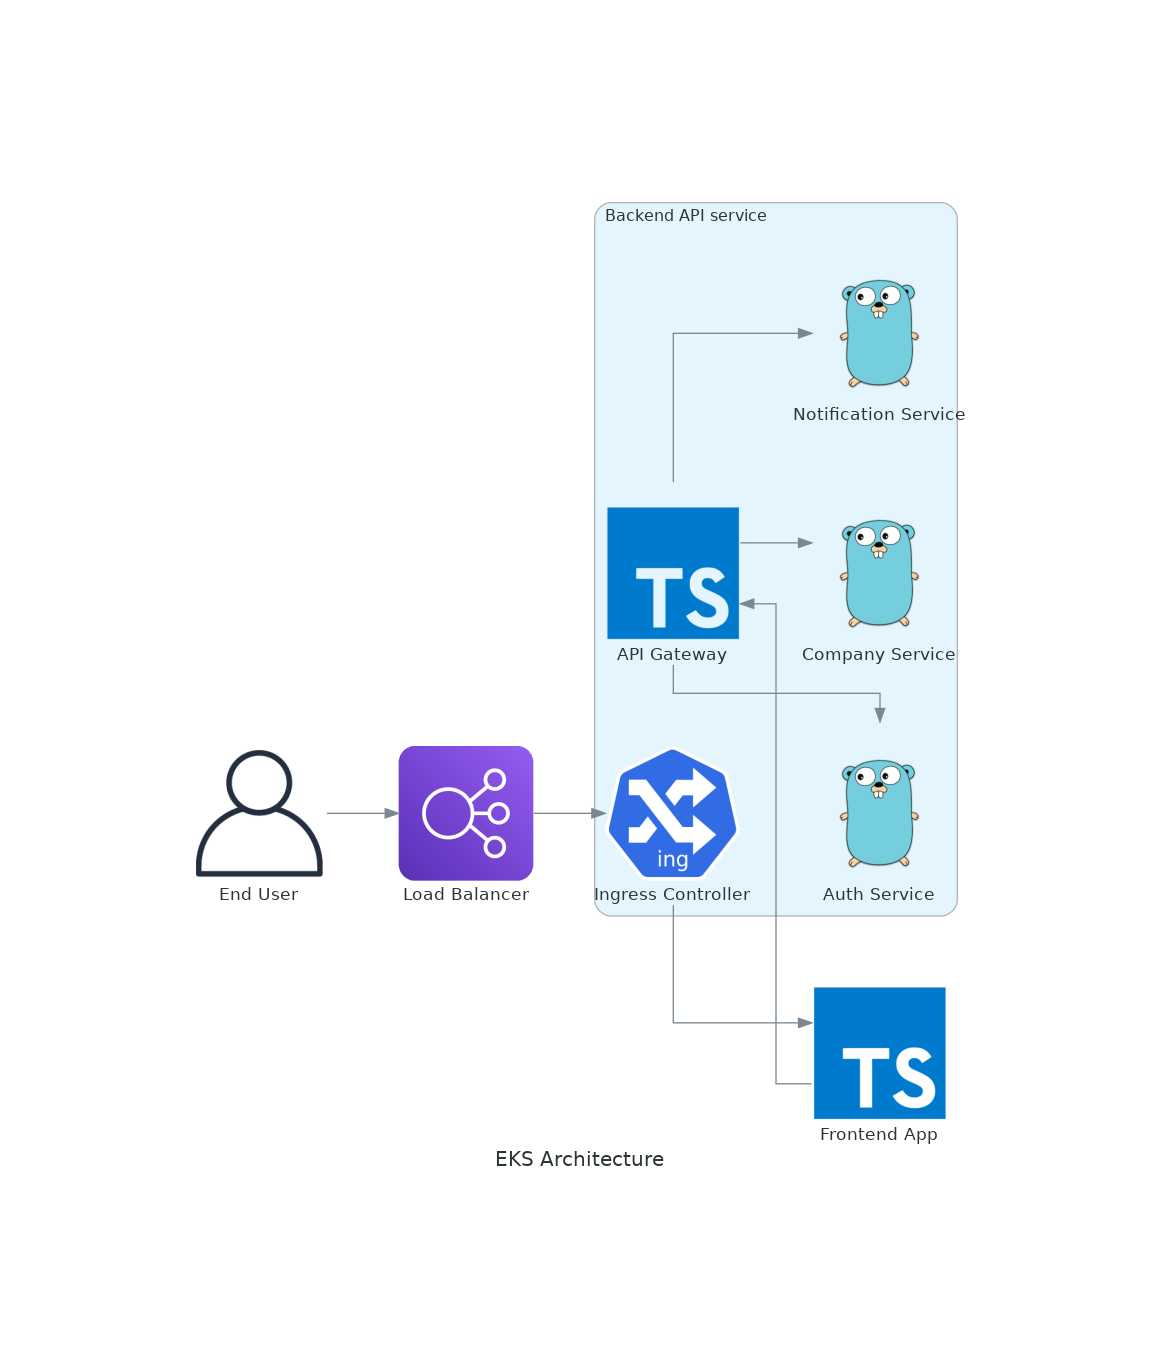
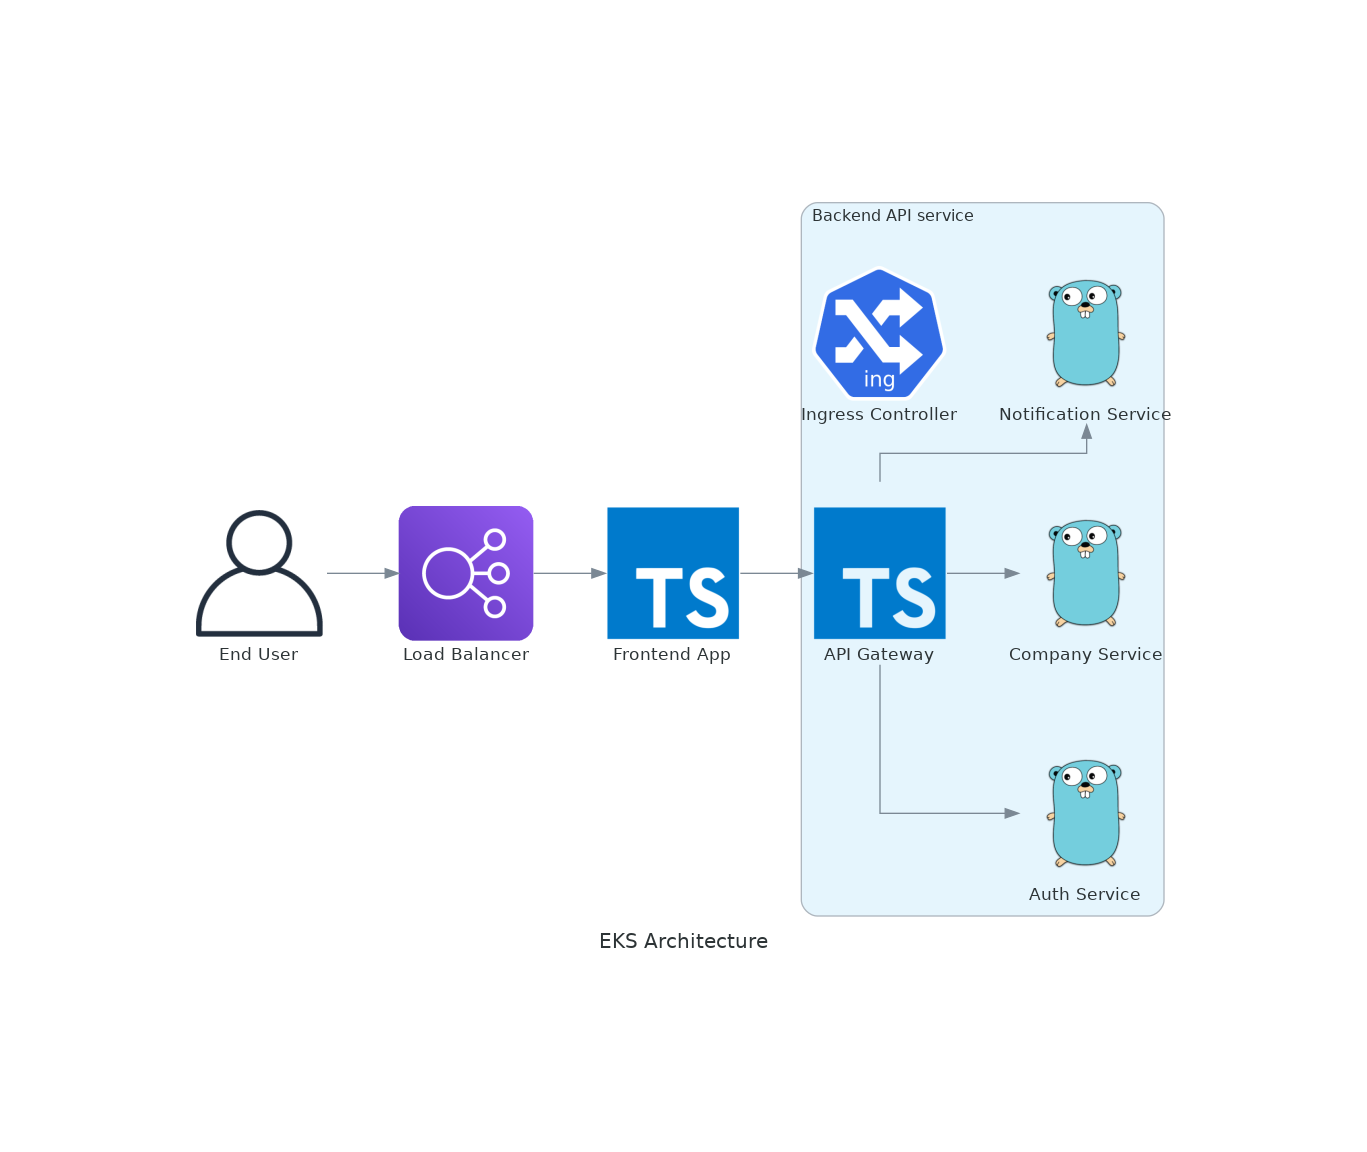
update

diff --git a/diagram.py b/diagram.py
@@ -19,9 +19,8 @@ with Diagram("EKS Architecture", show=False):
             Golang("Notification Service")
         ]
         
-        
 
     typescript_app = Typescript("Frontend App")
 
-    User("End User") >> ELB("Load Balancer") >> ingress_controller >> typescript_app >> api_gateway >> golang_services 
+    User("End User") >> ELB("Load Balancer") >> typescript_app >> api_gateway >> golang_services 
 
